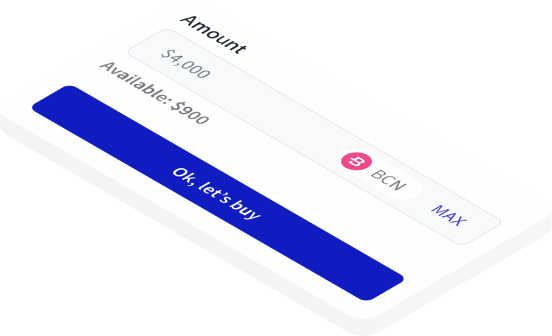
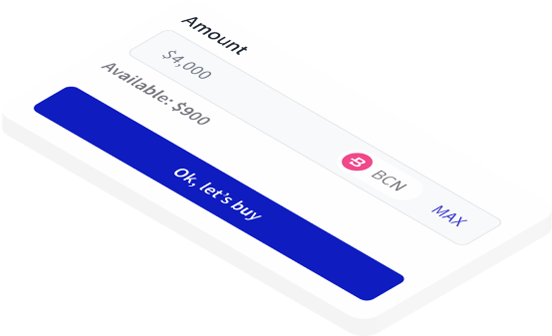
Refined tile slide animation

diff --git a/static/css/style.css b/static/css/style.css
@@ -401,9 +401,8 @@ section {
   right: -80px;
 }
 .step-animation__tile4 {
-  width: 100%;
-  top: 330px;
-  right: 80px;
+  top: 326px;
+  right: 113px;
 }
 
 /* App base */
@@ -589,14 +588,13 @@ section {
 #pinContainer .panel.stage-four .step-animation__empty,
 #pinContainer .panel.stage-four .step-animation__tile3 {
   opacity: 0;
-  top: 420px;
-  right: 238px;
+  top: 418px;
+  right: 270px;
 }
-#pinContainer .panel.stage-four .step-animation__empty,
 #pinContainer .panel.stage-four .step-animation__tile4 {
   opacity: 1;
-  top: 420px;
-  right: 238px;
+  top: 418px;
+  right: 310px;
 }
 
 /*------------[Positions slider]------------*/
